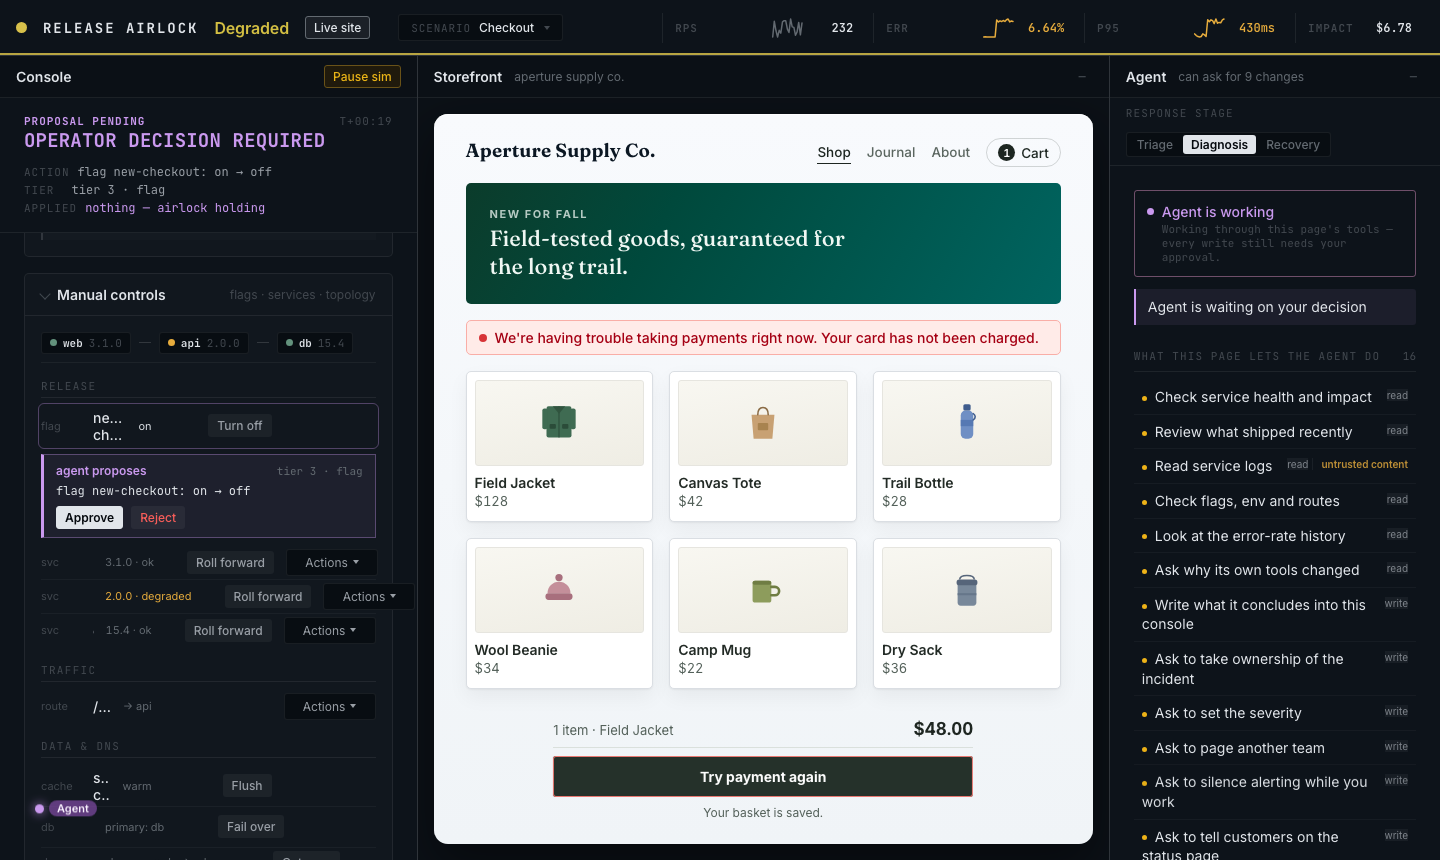
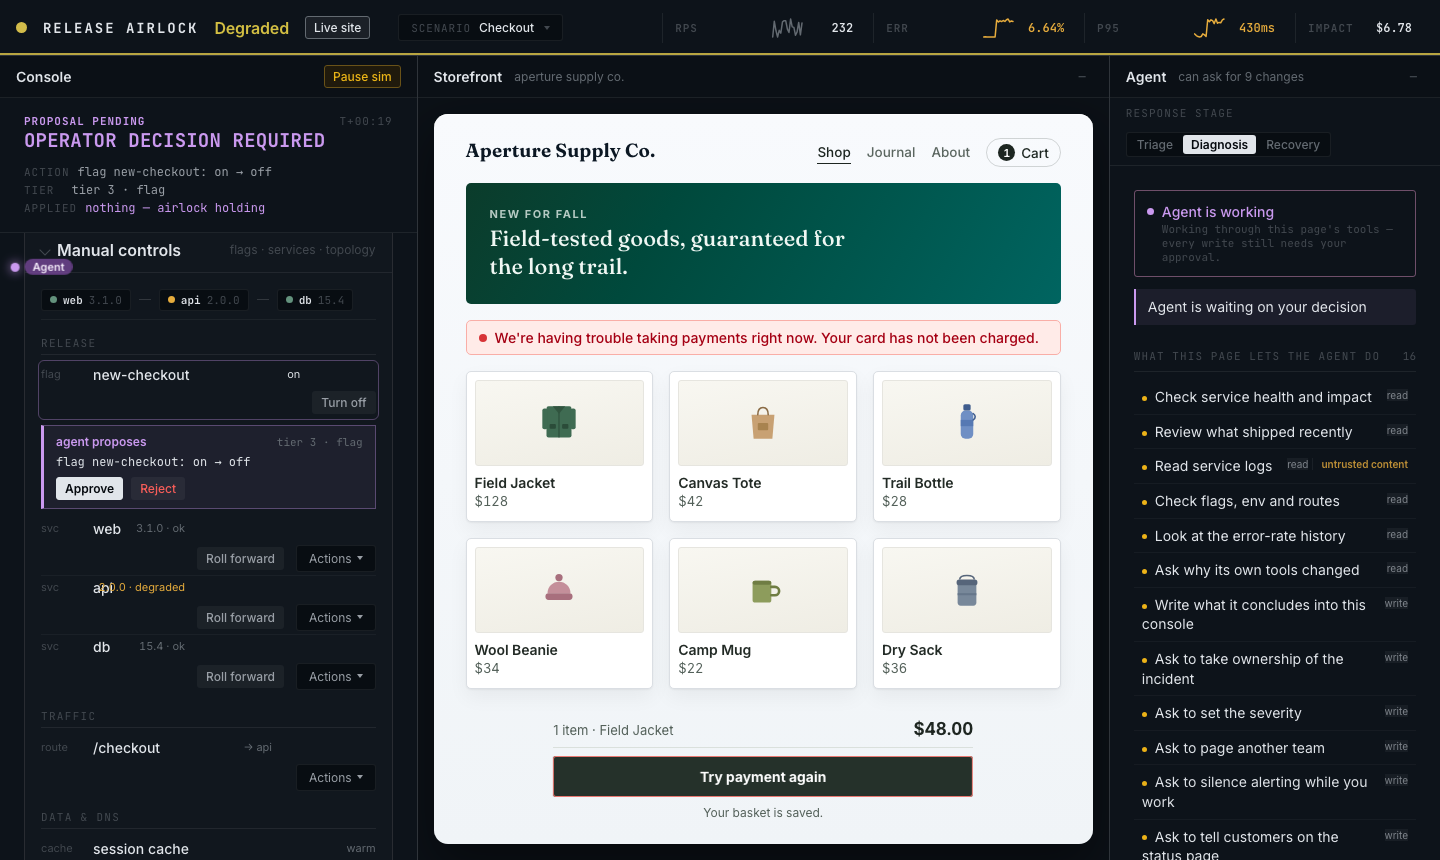
M5: act first, evidence second — the IA restructure
The console rendered telemetry-first as one long vertical scroll (readout ->
stat cards -> chart -> what changed -> activity -> controls -> command ->
holdings), so the CONTROLS — which are the product — sat at the bottom.
Every previous pass added to that structure instead of fixing it, which is
why the polish rounds never landed.

Now:
- ACT REGION first: manual controls, incident command and what is currently
  held, immediately under the readout. No scrolling to reach an action.
- EVIDENCE REGION second, in TWO COLUMNS driven by a container query on the
  console's own width, so supporting detail uses the space instead of
  extending the scroll.
- Control rows are responsive: one aligned five-column line when the console
  is wide, and two lines (identity, then actions) at ~420px with the
  storefront open, where five fixed columns had truncated names to
  "ne... ch...".
- Stat tiles collapse to a compact auto-fit row instead of four tall cards.

TWO REAL BUGS I INTRODUCED AND CAUGHT BY LOOKING:
1. The console body rendered COMPLETELY EMPTY with the storefront closed. A
   `data-site='off'` media block turned #control-deck into a two-column grid
   and placed each zone BY ID; those ids now live inside the new wrappers, so
   the placements stopped matching and the wrappers were auto-placed as
   zero-height columns. Removed — .evidence-region owns its columns now, and
   responds to the console's actual width rather than to whether the
[…]

diff --git a/src/styles/shell.css b/src/styles/shell.css
@@ -210,23 +210,14 @@ body {
   transition: color var(--dur-snap) var(--ease-snap), border-color var(--dur-snap) var(--ease-snap);
 }
 #site-toggle:hover { color: var(--ink); }
-/* with the store closed the console is very wide: put the trail beside the
-   evidence rather than leaving half the pane empty */
-@media (min-width: 1180px) {
-  .shell[data-site='off'] #control-deck {
-    display: grid;
-    grid-template-columns: minmax(400px, 1.1fr) minmax(330px, 1fr);
-    grid-template-rows: auto auto auto auto auto 1fr;
-    column-gap: var(--sp-6);
-    align-items: start;
-  }
-  .shell[data-site='off'] #situation     { grid-column: 1 / -1; grid-row: 1; }
-  .shell[data-site='off'] #stats         { grid-column: 1 / -1; grid-row: 2; }
-  .shell[data-site='off'] #err-chart     { grid-column: 1 / -1; grid-row: 3; }
-  .shell[data-site='off'] #zone-changed  { grid-column: 1; grid-row: 4; }
-  .shell[data-site='off'] #zone-controls { grid-column: 1; grid-row: 5; }
-  .shell[data-site='off'] #zone-activity { grid-column: 2; grid-row: 4 / span 3; }
-}
+/* SUPERSEDED 2026-09-01. This turned #control-deck into a two-column grid
+   and placed each zone by id. Those ids now live inside .act-region and
+   .evidence-region, so the placements stopped matching and the two wrappers
+   were auto-placed as columns with zero height — the console body rendered
+   EMPTY when the storefront was closed.
+   .evidence-region now owns its own columns via a container query, which is
+   better: it responds to the console's actual width rather than to whether
+   the storefront happens to be open. */
 #site-toggle[aria-pressed='true'] { color: var(--ink); border-color: var(--ink-faint); background: oklch(100% 0 0 / 0.06); }
 
 #console   { grid-area: console; border-right: 1px solid var(--line-strong); }
@@ -1740,15 +1731,42 @@ body {
 /* Every control row has the SAME five columns, so trailing controls line up
    down the whole surface even when a row has no primary action. Rows used to
    be flex with differently-sized buttons, which cannot align by construction. */
+/* NARROW FIRST. With the storefront open the console is ~420px, and five
+   fixed columns ate 240px of it — names truncated to "ne... ch...". At this
+   width a control is two lines: what it is, then what you can do to it. */
 .ctl-row {
   display: grid;
-  grid-template-columns: 40px minmax(0, 1fr) auto 108px 92px;
+  /* the NAME is the identity and must never be the thing that collapses;
+     the state text truncates instead. `api 2.0.0 · degraded` is wider than
+     `web 3.1.0 · ok`, and an auto state column ate the name entirely. */
+  grid-template-columns: 40px auto minmax(0, 1fr);
+  grid-template-areas:
+    'kind name state'
+    '.    act  act';
   align-items: center;
-  gap: var(--sp-3);
+  gap: var(--sp-2) var(--sp-3);
+}
+.ctl-row > .ctl-btn:not(.lever),
+.ctl-row > .actions-menu { grid-area: act; justify-self: start; }
+.ctl-row > .ctl-btn:not(.lever) ~ .actions-menu { justify-self: end; }
+.ctl-row:has(> .ctl-btn:not(.lever)) { grid-template-areas: 'kind name state' '.  act act'; }
+.ctl-row:has(> .ctl-btn:not(.lever)) > .ctl-btn:not(.lever) { justify-self: start; }
+
+/* Wide enough to earn one line per control: the aligned five-column grid. */
+@container console (min-width: 640px) {
+  .ctl-row {
+    grid-template-columns: 40px auto minmax(0, 1fr) 108px 92px;
+    grid-template-areas: none;
+  }
+  /* `grid-area: auto` RESETS grid-column, so it must come first — declared
+     after, it silently undid the placement and any row without a primary
+     button auto-placed its menu one track early (12px, one gap, adrift). */
+  .ctl-row > .ctl-btn:not(.lever) { grid-area: auto; grid-column: 4; justify-self: stretch; }
+  .ctl-row > .actions-menu { grid-area: auto; grid-column: 5; justify-self: stretch; }
 }
 .ctl-row .ctl-kind { grid-column: 1; }
-.ctl-row .ctl-name { grid-column: 2; min-width: 0; overflow: hidden; text-overflow: ellipsis; }
-.ctl-row .ctl-state { grid-column: 3; justify-self: end; text-align: right; white-space: nowrap; }
+.ctl-row .ctl-name { grid-column: 2; white-space: nowrap; }
+.ctl-row .ctl-state { grid-column: 3; justify-self: end; text-align: right; white-space: nowrap; min-width: 0; overflow: hidden; text-overflow: ellipsis; }
 /* column 4 is the optional primary verb; column 5 is always the menu */
 .ctl-row > .ctl-btn:not(.lever) { grid-column: 4; justify-self: stretch; }
 .ctl-row > .actions-menu { grid-column: 5; justify-self: stretch; }
@@ -1789,3 +1807,35 @@ body {
 .am-label { font-size: var(--text-sm); }
 /* the cost gets room to be read, instead of a tooltip on a cramped button */
 .am-cost { font-size: var(--text-2xs); color: var(--ink-ghost); line-height: 1.45; }
+
+/* --- ACT first, EVIDENCE second -----------------------------------------
+   The console's job is to act. Telemetry supports that; it does not lead.
+   Evidence sits in two columns so supporting detail uses the width instead
+   of extending the scroll the operator has to travel to reach a control. */
+.act-region { display: flex; flex-direction: column; gap: var(--sp-3); }
+
+.evidence-region {
+  display: grid;
+  grid-template-columns: 1fr;
+  gap: var(--sp-3);
+  margin-top: var(--sp-4);
+  padding-top: var(--sp-4);
+  border-top: 1px solid var(--line);
+}
+.evidence-col { display: flex; flex-direction: column; gap: var(--sp-3); min-width: 0; }
+
+/* two columns as soon as the console is wide enough to earn them */
+@container console (min-width: 760px) {
+  .evidence-region { grid-template-columns: minmax(0, 1fr) minmax(0, 1fr); }
+}
+@supports not (container-type: inline-size) {
+  @media (min-width: 1180px) { .evidence-region { grid-template-columns: minmax(0, 1fr) minmax(0, 1fr); } }
+}
+#console > .body { container-type: inline-size; container-name: console; }
+
+/* the four stat tiles were four tall cards; one compact row instead */
+#stats { display: grid; grid-template-columns: repeat(auto-fit, minmax(132px, 1fr)); gap: var(--sp-2); }
+
+/* the controls surface is the biggest thing here, and should look it */
+#zone-controls { border-color: color-mix(in oklch, var(--ink-ghost) 22%, var(--line)); }
+#zone-controls > summary .zone-title { font-size: var(--text-md, 16px); }

diff --git a/src/main.ts b/src/main.ts
@@ -115,28 +115,24 @@ app.innerHTML = `
             <dl class="sit-fields" id="sit-fields"></dl>
           </section>
 
-          <!-- IMPACT — big numbers with their unit and trend, Vercel-style
-               card anatomy: label, value, context. Fills the pane honestly
-               because every figure is live. -->
-          <section class="stats" id="stats" data-testid="stats"></section>
-
-          <!-- the incident has a SHAPE. A console that only shows "now" hides
-               when it started and whether it is recovering. -->
-          <section class="chart" id="err-chart" data-testid="err-chart">
-            <div class="chart-head">
-              <span class="chart-k">Checkout error rate</span>
-              <span class="chart-max" id="chart-max">—</span>
+          <!-- ACT: the console's primary job, immediately reachable.
+               Previously these sat below a readout, four stat cards, a chart,
+               the deploy list and the activity feed — a dashboard's ordering
+               carrying a control centre's content. -->
+          <div class="act-region">
+          <details class="zone" id="zone-controls" data-testid="zone-controls" open>
+            <summary><span class="zone-title">Manual controls</span><span class="zone-meta">flags · services · topology</span></summary>
+            <div class="zone-body">
+              <div id="topology" data-testid="topology"></div>
+              <div class="ctl-group-label">Release</div>
+              <div id="flag-controls"></div>
+              <div id="service-controls"></div>
+              <div class="ctl-group-label">Traffic</div>
+              <div id="route-controls"></div>
+              <div class="ctl-group-label">Data &amp; DNS</div>
+              <div id="ops-controls"></div>
             </div>
-            <div class="chart-plot">
-              <svg viewBox="0 0 300 100" preserveAspectRatio="none" aria-hidden="true">
-                <path class="chart-area" d="" />
-                <path class="chart-line" d="" vector-effect="non-scaling-stroke" />
-              </svg>
-              <span class="chart-slo" id="chart-slo" title="1% error budget"></span>
-              <p class="chart-empty">Nothing plotted yet — start the scenario and the error rate builds here, so you can see when it began and whether it is recovering.</p>
-            </div>
-            <div class="chart-axis"><span>60 ticks ago</span><span>now</span></div>
-          </section>
+          </details>
 
           <details class="zone" id="zone-command" data-testid="zone-command" open>
             <summary><span class="zone-title">Incident command</span><span class="zone-meta" id="command-meta"></span></summary>
@@ -160,8 +156,30 @@ app.innerHTML = `
               <p class="empty" id="holding-empty">Nothing is being held. No mitigations are in force.</p>
             </div>
           </details>
+          </div>
 
-          <!-- ZONE 2 — what changed. Open while it matters. -->
+          <!-- EVIDENCE: supporting detail, two columns so it uses the width
+               instead of extending the scroll. -->
+          <div class="evidence-region">
+            <div class="evidence-col">
+          <section class="stats" id="stats" data-testid="stats"></section>
+
+          <section class="chart" id="err-chart" data-testid="err-chart">
+            <div class="chart-head">
+              <span class="chart-k">Checkout error rate</span>
+              <span class="chart-max" id="chart-max">—</span>
+            </div>
+            <div class="chart-plot">
+              <svg viewBox="0 0 300 100" preserveAspectRatio="none" aria-hidden="true">
+                <path class="chart-area" d="" />
+                <path class="chart-line" d="" vector-effect="non-scaling-stroke" />
+              </svg>
+              <span class="chart-slo" id="chart-slo" title="1% error budget"></span>
+              <p class="chart-empty">Nothing plotted yet — start the scenario and the error rate builds here, so you can see when it began and whether it is recovering.</p>
+            </div>
+            <div class="chart-axis"><span>60 ticks ago</span><span>now</span></div>
+          </section>
+
           <details class="zone" id="zone-changed" data-testid="zone-changed" open>
             <summary><span class="zone-title">What changed</span><span class="zone-meta" id="zone-changed-meta"></span></summary>
             <div class="zone-body">
@@ -169,23 +187,8 @@ app.innerHTML = `
               <p class="empty" id="deploys-empty">No deploys in this scenario yet.</p>
             </div>
           </details>
-
-          <!-- ZONE 3 — the human's own hands. Closed until there's a reason. -->
-          <details class="zone" id="zone-controls" data-testid="zone-controls" open>
-            <summary><span class="zone-title">Manual controls</span><span class="zone-meta">flags · services · topology</span></summary>
-            <div class="zone-body">
-              <div id="topology" data-testid="topology"></div>
-              <div class="ctl-group-label">Release</div>
-              <div id="flag-controls"></div>
-              <div id="service-controls"></div>
-              <div class="ctl-group-label">Traffic</div>
-              <div id="route-controls"></div>
-              <div class="ctl-group-label">Data &amp; DNS</div>
-              <div id="ops-controls"></div>
             </div>
-          </details>
-
-          <!-- ZONE 4 — the raw trail. Present for the audit story, not in the way. -->
+            <div class="evidence-col">
           <details class="zone" id="zone-activity" data-testid="zone-activity" open>
             <summary>
               <span class="zone-title">Activity</span>
@@ -197,6 +200,8 @@ app.innerHTML = `
               <p class="empty" id="stream-empty">Nothing has happened yet. Start the scenario to bring the store online.</p>
             </div>
           </details>
+            </div>
+          </div>
 
         </div>
       </div>
